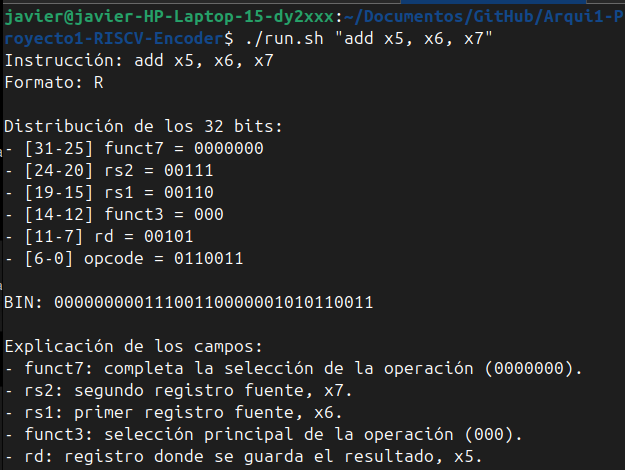
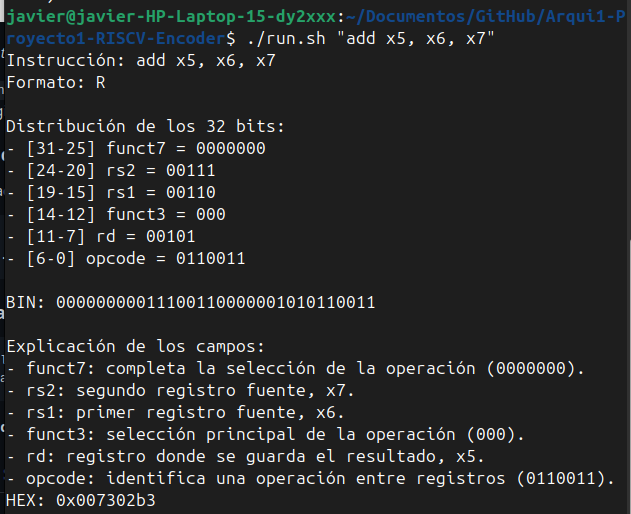
docs: agregar diagrama de flujo del codificador y ss4

Changed region(s): [[0.0, 0.0, 1.0, 1.0]]

diff --git a/documentacion.md b/documentacion.md
@@ -241,6 +241,4 @@ Los valores de `opcode`, `funct3`, `funct7` y la distribución de los inmediatos
 
 [1] A. Waterman and K. Asanović, Eds., *The RISC-V Instruction Set Manual, Volume I: Unprivileged ISA*, document version 20191213. RISC-V Foundation, 2019, p. 130.
 
-[2] J. González Gómez, “Proyecto Individual: Codificador Educativo de Instrucciones RISC-V,” especificación de proyecto, CE-4301 Arquitectura de Computadores I, Instituto Tecnológico de Costa Rica, 2026. [En línea].
-
-
+[2] J. González Gómez, “Proyecto Individual: Codificador Educativo de Instrucciones RISC-V,” especificación de proyecto, CE-4301 Arquitectura de Computadores I, Instituto Tecnológico de Costa Rica, 2026. [En línea]. Disponible en: [especificacion-proyecto-individual-isa-encoder-riscv.pdf](isa-encoder-riscv-kit-2026ii/especificacion-proyecto-individual-isa-encoder-riscv.pdf)
